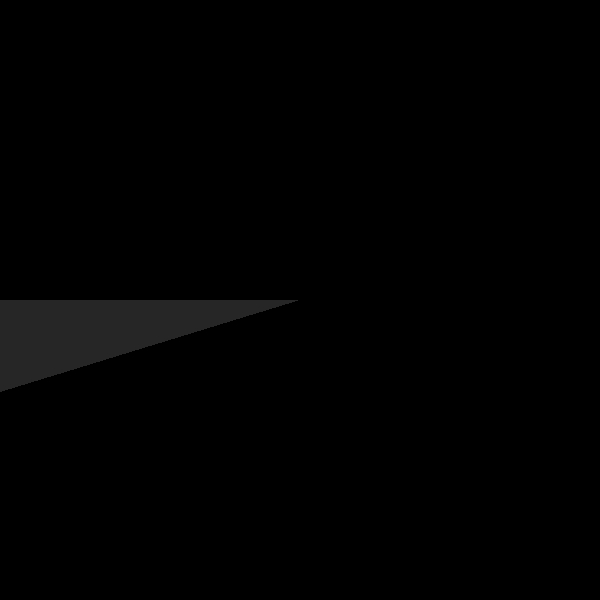
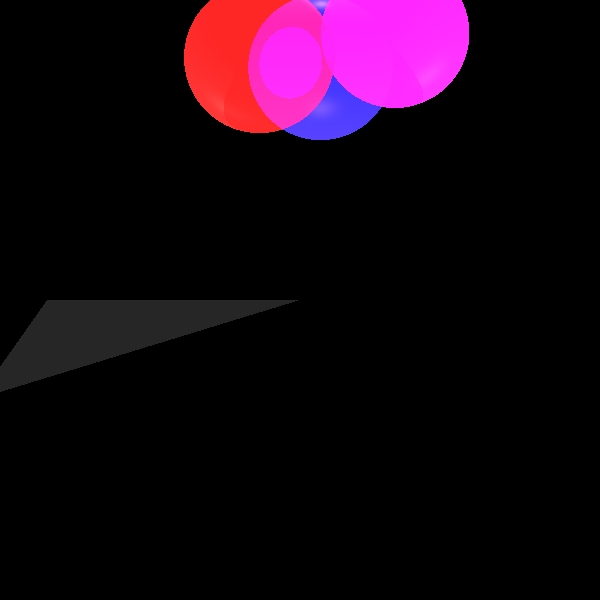
finished the reflection and refraction function

Changed region(s): [[0.3, 0.0, 0.78, 0.24], [0.0, 0.48, 0.09, 0.6]]

diff --git a/IME5780-E1-5840-6639/src/unittests/ReflectionRefractionTests.java b/IME5780-E1-5840-6639/src/unittests/ReflectionRefractionTests.java
@@ -113,8 +113,8 @@ public class ReflectionRefractionTests {
     public void ourGeometries() {
 
         Scene scene = new Scene("Test scene");
-        scene.setCamera(new Camera(new Point3D(-150, 150, 115), new Vector(225, -225, 35).normalize(), new Triangle(Color.BLACK, new Material(0.5, 0.5, 60,0,0.6), //
-                new Point3D(-150, 150, 115), new Point3D(150, 150, 135), new Point3D(75, -75, 150)).getNormal(new Point3D(75, -75, 150)) //
+        scene.setCamera(new Camera(new Point3D(-150, 150, 115).add(new Vector(225, -225, 35).scale(-3)), new Vector(225, -225, 35).normalize(), new Triangle(Color.BLACK, new Material(0.5, 0.5, 60,0,0.6), //
+                new Point3D(-150, 150, 115), new Point3D(150, 150, 135), new Point3D(75, -75, 150)).getNormal(new Point3D(75, -75, 150))//
         ));
         scene.setDistance(1000);
         scene.setBackground(Color.BLACK);
